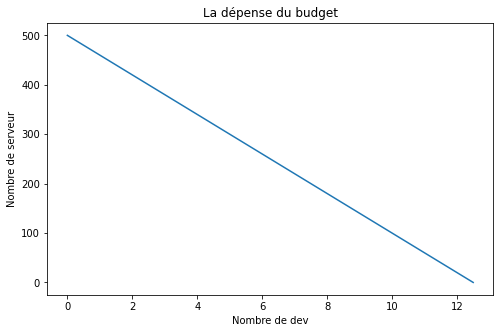
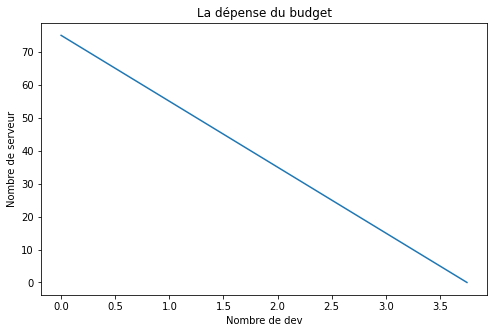
Latex marketing evaluation

diff --git a/Optimisation/Optimisation_budget.tex b/Optimisation/Optimisation_budget.tex
@@ -366,7 +366,7 @@
 Projet}\label{multiplicateur-de-lagrange-pour-optimiser-le-dimensionnement-du-projet}}
 
     \begin{tcolorbox}[breakable, size=fbox, boxrule=1pt, pad at break*=1mm,colback=cellbackground, colframe=cellborder]
-\prompt{In}{incolor}{11}{\boxspacing}
+\prompt{In}{incolor}{1}{\boxspacing}
 \begin{Verbatim}[commandchars=\\\{\}]
 \PY{k+kn}{import} \PY{n+nn}{matplotlib}\PY{n+nn}{.}\PY{n+nn}{pyplot} \PY{k}{as} \PY{n+nn}{plt}
 \PY{k+kn}{import} \PY{n+nn}{numpy} \PY{k}{as} \PY{n+nn}{np}
@@ -378,27 +378,27 @@ Projet}\label{multiplicateur-de-lagrange-pour-optimiser-le-dimensionnement-du-pr
 d'heures de machine chaque mois
 
     \begin{tcolorbox}[breakable, size=fbox, boxrule=1pt, pad at break*=1mm,colback=cellbackground, colframe=cellborder]
-\prompt{In}{incolor}{186}{\boxspacing}
+\prompt{In}{incolor}{2}{\boxspacing}
 \begin{Verbatim}[commandchars=\\\{\}]
 \PY{n}{one\PYZus{}dev\PYZus{}cost} \PY{o}{=} \PY{l+m+mi}{4000}
-\PY{n}{one\PYZus{}host\PYZus{}cost} \PY{o}{=} \PY{l+m+mi}{100}
-\PY{n}{budget} \PY{o}{=} \PY{l+m+mi}{50000}
+\PY{n}{one\PYZus{}host\PYZus{}cost} \PY{o}{=} \PY{l+m+mi}{200}
+\PY{n}{budget} \PY{o}{=} \PY{l+m+mi}{15000}
 \PY{n}{nb\PYZus{}hosts} \PY{o}{=} \PY{n}{budget} \PY{o}{/} \PY{n}{one\PYZus{}host\PYZus{}cost} 
 \end{Verbatim}
 \end{tcolorbox}
 
     \begin{tcolorbox}[breakable, size=fbox, boxrule=1pt, pad at break*=1mm,colback=cellbackground, colframe=cellborder]
-\prompt{In}{incolor}{204}{\boxspacing}
+\prompt{In}{incolor}{3}{\boxspacing}
 \begin{Verbatim}[commandchars=\\\{\}]
-\PY{n}{n} \PY{o}{=} \PY{l+m+mi}{10000}  \PY{c+c1}{\PYZsh{} Ratio de retour sur investissement}
-\PY{n}{p} \PY{o}{=} \PY{l+m+mi}{50}  \PY{c+c1}{\PYZsh{} Ratio d’efficacité des dev / host}
+\PY{n}{n} \PY{o}{=} \PY{l+m+mi}{500} \PY{c+c1}{\PYZsh{} Coeff du retour sur investissement (x5)}
+\PY{n}{p} \PY{o}{=} \PY{l+m+mi}{5}  \PY{c+c1}{\PYZsh{} Coefficient d’efficacité des ventes entre dev / host}
 \end{Verbatim}
 \end{tcolorbox}
 
     Nos possibilités maximales sont
 
     \begin{tcolorbox}[breakable, size=fbox, boxrule=1pt, pad at break*=1mm,colback=cellbackground, colframe=cellborder]
-\prompt{In}{incolor}{187}{\boxspacing}
+\prompt{In}{incolor}{4}{\boxspacing}
 \begin{Verbatim}[commandchars=\\\{\}]
 \PY{n}{host\PYZus{}min} \PY{o}{=} \PY{l+m+mi}{0}
 \PY{n}{host\PYZus{}max} \PY{o}{=} \PY{n}{budget} \PY{o}{/} \PY{n}{one\PYZus{}host\PYZus{}cost}
@@ -409,7 +409,7 @@ d'heures de machine chaque mois
 \end{tcolorbox}
 
     \begin{tcolorbox}[breakable, size=fbox, boxrule=1pt, pad at break*=1mm,colback=cellbackground, colframe=cellborder]
-\prompt{In}{incolor}{188}{\boxspacing}
+\prompt{In}{incolor}{5}{\boxspacing}
 \begin{Verbatim}[commandchars=\\\{\}]
 \PY{k}{def} \PY{n+nf}{n\PYZus{}dev}\PY{p}{(}\PY{n}{n\PYZus{}host}\PY{p}{,} \PY{n}{budget}\PY{p}{)}\PY{p}{:}
     \PY{k}{return} \PY{p}{(}\PY{n}{budget} \PY{o}{\PYZhy{}} \PY{n}{one\PYZus{}host\PYZus{}cost} \PY{o}{*} \PY{n}{n\PYZus{}host}\PY{p}{)} \PY{o}{/} \PY{n}{one\PYZus{}dev\PYZus{}cost}
@@ -417,7 +417,7 @@ d'heures de machine chaque mois
 \end{tcolorbox}
 
     \begin{tcolorbox}[breakable, size=fbox, boxrule=1pt, pad at break*=1mm,colback=cellbackground, colframe=cellborder]
-\prompt{In}{incolor}{189}{\boxspacing}
+\prompt{In}{incolor}{6}{\boxspacing}
 \begin{Verbatim}[commandchars=\\\{\}]
 \PY{k}{def} \PY{n+nf}{n\PYZus{}host}\PY{p}{(}\PY{n}{n\PYZus{}dev}\PY{p}{,} \PY{n}{budget}\PY{p}{)}\PY{p}{:}
     \PY{k}{return} \PY{p}{(}\PY{n}{budget} \PY{o}{\PYZhy{}} \PY{n}{one\PYZus{}dev\PYZus{}cost} \PY{o}{*} \PY{n}{n\PYZus{}dev}\PY{p}{)} \PY{o}{/} \PY{n}{one\PYZus{}host\PYZus{}cost}
@@ -427,7 +427,7 @@ d'heures de machine chaque mois
     Plotting les dépenses du budget sur une courbe
 
     \begin{tcolorbox}[breakable, size=fbox, boxrule=1pt, pad at break*=1mm,colback=cellbackground, colframe=cellborder]
-\prompt{In}{incolor}{190}{\boxspacing}
+\prompt{In}{incolor}{7}{\boxspacing}
 \begin{Verbatim}[commandchars=\\\{\}]
 \PY{n}{dev\PYZus{}x} \PY{o}{=} \PY{n}{np}\PY{o}{.}\PY{n}{linspace}\PY{p}{(}\PY{n}{dev\PYZus{}min}\PY{p}{,} \PY{n}{dev\PYZus{}max}\PY{p}{,} \PY{l+m+mi}{100}\PY{p}{)}
 \PY{n}{host\PYZus{}y} \PY{o}{=} \PY{n}{n\PYZus{}host}\PY{p}{(}\PY{n}{dev\PYZus{}x}\PY{p}{,} \PY{n}{budget}\PY{p}{)}
@@ -447,25 +447,25 @@ d'heures de machine chaque mois
     { \hspace*{\fill} \\}
     
     \begin{tcolorbox}[breakable, size=fbox, boxrule=1pt, pad at break*=1mm,colback=cellbackground, colframe=cellborder]
-\prompt{In}{incolor}{191}{\boxspacing}
+\prompt{In}{incolor}{8}{\boxspacing}
 \begin{Verbatim}[commandchars=\\\{\}]
 \PY{c+c1}{\PYZsh{} Les revenus}
 \end{Verbatim}
 \end{tcolorbox}
 
     \begin{tcolorbox}[breakable, size=fbox, boxrule=1pt, pad at break*=1mm,colback=cellbackground, colframe=cellborder]
-\prompt{In}{incolor}{205}{\boxspacing}
+\prompt{In}{incolor}{9}{\boxspacing}
 \begin{Verbatim}[commandchars=\\\{\}]
 \PY{k}{def} \PY{n+nf}{revenues}\PY{p}{(}\PY{n}{dev}\PY{p}{,} \PY{n}{host}\PY{p}{)}\PY{p}{:}
-    \PY{l+s+sd}{\PYZdq{}\PYZdq{}\PYZdq{}Équation pragmatique qui exprime le bénéfice en }
-\PY{l+s+sd}{    fonction du nombre d’heures de développement}
-\PY{l+s+sd}{    et du nombre d’heure de serveur utiliser.\PYZdq{}\PYZdq{}\PYZdq{}}
+    \PY{l+s+sd}{\PYZdq{}\PYZdq{}\PYZdq{}Équation pragmatique du marketing qui exprime le bénéfice en }
+\PY{l+s+sd}{    fonction du nombre de développeur}
+\PY{l+s+sd}{    et du nombre de serveur.\PYZdq{}\PYZdq{}\PYZdq{}}
     \PY{k}{return} \PY{n}{dev}\PY{o}{*}\PY{o}{*}\PY{p}{(}\PY{p}{(}\PY{n}{p}\PY{o}{\PYZhy{}}\PY{l+m+mi}{1}\PY{p}{)}\PY{o}{/}\PY{n}{p}\PY{p}{)} \PY{o}{*} \PY{n}{host}\PY{o}{*}\PY{o}{*}\PY{p}{(}\PY{l+m+mi}{1}\PY{o}{/}\PY{n}{p}\PY{p}{)} \PY{o}{*} \PY{n}{n}
 \end{Verbatim}
 \end{tcolorbox}
 
     \begin{tcolorbox}[breakable, size=fbox, boxrule=1pt, pad at break*=1mm,colback=cellbackground, colframe=cellborder]
-\prompt{In}{incolor}{206}{\boxspacing}
+\prompt{In}{incolor}{10}{\boxspacing}
 \begin{Verbatim}[commandchars=\\\{\}]
 \PY{k+kn}{from} \PY{n+nn}{mpl\PYZus{}toolkits}\PY{n+nn}{.}\PY{n+nn}{mplot3d} \PY{k+kn}{import} \PY{n}{Axes3D}
 \PY{n}{dev\PYZus{}axis} \PY{o}{=} \PY{n}{np}\PY{o}{.}\PY{n}{linspace}\PY{p}{(}\PY{n}{dev\PYZus{}min}\PY{p}{,} \PY{n}{dev\PYZus{}max}\PY{p}{,} \PY{l+m+mi}{100}\PY{p}{)}
@@ -487,7 +487,7 @@ d'heures de machine chaque mois
 \end{tcolorbox}
 
     \begin{Verbatim}[commandchars=\\\{\}]
-<ipython-input-206-9c6593fc3498>:7: MatplotlibDeprecationWarning: Calling gca()
+<ipython-input-10-9c6593fc3498>:7: MatplotlibDeprecationWarning: Calling gca()
 with keyword arguments was deprecated in Matplotlib 3.4. Starting two minor
 releases later, gca() will take no keyword arguments. The gca() function should
 only be used to get the current axes, or if no axes exist, create new axes with
@@ -506,7 +506,7 @@ plt.axes() or plt.subplot().
 dimensions}\label{repruxe9sentation-de-loptimisation-en-2-dimensions}}
 
     \begin{tcolorbox}[breakable, size=fbox, boxrule=1pt, pad at break*=1mm,colback=cellbackground, colframe=cellborder]
-\prompt{In}{incolor}{207}{\boxspacing}
+\prompt{In}{incolor}{11}{\boxspacing}
 \begin{Verbatim}[commandchars=\\\{\}]
 \PY{n}{fig}\PY{p}{,} \PY{p}{(}\PY{n}{ax\PYZus{}l}\PY{p}{,} \PY{n}{ax\PYZus{}r}\PY{p}{)} \PY{o}{=} \PY{n}{plt}\PY{o}{.}\PY{n}{subplots}\PY{p}{(}\PY{l+m+mi}{1}\PY{p}{,} \PY{l+m+mi}{2}\PY{p}{,} \PY{n}{figsize} \PY{o}{=} \PY{p}{(}\PY{l+m+mi}{15}\PY{p}{,} \PY{l+m+mi}{5}\PY{p}{)}\PY{p}{)}
 
@@ -555,22 +555,14 @@ sur le graphe ci-dessus à droite. Nous utilisons l'API de SAGEMATH avec
 l'option sympy pour équition diophantienne.
 
     \begin{tcolorbox}[breakable, size=fbox, boxrule=1pt, pad at break*=1mm,colback=cellbackground, colframe=cellborder]
-\prompt{In}{incolor}{208}{\boxspacing}
+\prompt{In}{incolor}{12}{\boxspacing}
 \begin{Verbatim}[commandchars=\\\{\}]
 \PY{n}{s}\PY{p}{,} \PY{n}{t}\PY{p}{,} \PY{n}{l} \PY{o}{=} \PY{n}{var}\PY{p}{(}\PY{l+s+s1}{\PYZsq{}}\PY{l+s+s1}{s t l}\PY{l+s+s1}{\PYZsq{}}\PY{p}{)}
 \end{Verbatim}
 \end{tcolorbox}
 
     \begin{tcolorbox}[breakable, size=fbox, boxrule=1pt, pad at break*=1mm,colback=cellbackground, colframe=cellborder]
-\prompt{In}{incolor}{209}{\boxspacing}
-\begin{Verbatim}[commandchars=\\\{\}]
-\PY{n}{n} \PY{o}{=} \PY{l+m+mi}{10000}  \PY{c+c1}{\PYZsh{} Ratio de retour sur investissement}
-\PY{n}{p} \PY{o}{=} \PY{l+m+mi}{50}  \PY{c+c1}{\PYZsh{} Ratio d’efficacité des dev / host}
-\end{Verbatim}
-\end{tcolorbox}
-
-    \begin{tcolorbox}[breakable, size=fbox, boxrule=1pt, pad at break*=1mm,colback=cellbackground, colframe=cellborder]
-\prompt{In}{incolor}{201}{\boxspacing}
+\prompt{In}{incolor}{13}{\boxspacing}
 \begin{Verbatim}[commandchars=\\\{\}]
 \PY{n}{solutions} \PY{o}{=} \PY{n}{solve}\PY{p}{(}\PY{p}{[}\PY{p}{(}\PY{p}{(}\PY{n}{n}\PY{o}{/}\PY{n}{p}\PY{p}{)}\PY{o}{*}\PY{p}{(}\PY{p}{(}\PY{n}{t}\PY{o}{*}\PY{o}{*}\PY{p}{(}\PY{n}{p}\PY{o}{/}\PY{p}{(}\PY{n}{p}\PY{o}{+}\PY{l+m+mi}{1}\PY{p}{)}\PY{p}{)}\PY{p}{)}\PY{o}{/}\PY{n}{s}\PY{o}{*}\PY{o}{*}\PY{p}{(}\PY{n}{p}\PY{o}{/}\PY{p}{(}\PY{n}{p}\PY{o}{+}\PY{l+m+mi}{1}\PY{p}{)}\PY{p}{)}\PY{p}{)} \PY{o}{\PYZhy{}} \PY{n}{one\PYZus{}host\PYZus{}cost}\PY{o}{*}\PY{n}{l} \PY{o}{==} \PY{l+m+mi}{0}\PY{p}{)}\PY{p}{,}
    \PY{p}{(}\PY{p}{(}\PY{n}{n}\PY{o}{*}\PY{n}{p}\PY{o}{/}\PY{p}{(}\PY{n}{p}\PY{o}{+}\PY{l+m+mi}{1}\PY{p}{)}\PY{p}{)}\PY{o}{*}\PY{p}{(}\PY{n}{s}\PY{o}{*}\PY{o}{*}\PY{p}{(}\PY{l+m+mi}{1}\PY{o}{/}\PY{p}{(}\PY{n}{p}\PY{o}{+}\PY{l+m+mi}{1}\PY{p}{)}\PY{p}{)}\PY{o}{/}\PY{n}{t}\PY{o}{*}\PY{o}{*}\PY{p}{(}\PY{l+m+mi}{1}\PY{o}{/}\PY{p}{(}\PY{n}{p}\PY{o}{+}\PY{l+m+mi}{1}\PY{p}{)}\PY{p}{)}\PY{p}{)} \PY{o}{\PYZhy{}} \PY{n}{one\PYZus{}dev\PYZus{}cost}\PY{o}{*}\PY{n}{l} \PY{o}{==} \PY{l+m+mi}{0}\PY{p}{)}\PY{p}{,}
@@ -579,35 +571,35 @@ l'option sympy pour équition diophantienne.
 \end{tcolorbox}
 
     \begin{tcolorbox}[breakable, size=fbox, boxrule=1pt, pad at break*=1mm,colback=cellbackground, colframe=cellborder]
-\prompt{In}{incolor}{210}{\boxspacing}
+\prompt{In}{incolor}{14}{\boxspacing}
 \begin{Verbatim}[commandchars=\\\{\}]
 \PY{n}{revenues}\PY{p}{(}\PY{n}{solutions}\PY{p}{[}\PY{l+m+mi}{0}\PY{p}{]}\PY{p}{[}\PY{n}{s}\PY{p}{]}\PY{p}{,} \PY{n}{solutions}\PY{p}{[}\PY{l+m+mi}{0}\PY{p}{]}\PY{p}{[}\PY{n}{t}\PY{p}{]}\PY{p}{)}\PY{o}{.}\PY{n}{n}\PY{p}{(}\PY{p}{)}
 \end{Verbatim}
 \end{tcolorbox}
 
             \begin{tcolorbox}[breakable, size=fbox, boxrule=.5pt, pad at break*=1mm, opacityfill=0]
-\prompt{Out}{outcolor}{210}{\boxspacing}
+\prompt{Out}{outcolor}{14}{\boxspacing}
 \begin{Verbatim}[commandchars=\\\{\}]
-100368.149862054
+5303.62216314408
 \end{Verbatim}
 \end{tcolorbox}
         
     \begin{tcolorbox}[breakable, size=fbox, boxrule=1pt, pad at break*=1mm,colback=cellbackground, colframe=cellborder]
-\prompt{In}{incolor}{203}{\boxspacing}
+\prompt{In}{incolor}{15}{\boxspacing}
 \begin{Verbatim}[commandchars=\\\{\}]
-\PY{l+s+s1}{\PYZsq{}}\PY{l+s+s1}{nombre de dev:}\PY{l+s+s1}{\PYZsq{}}\PY{p}{,} \PY{n}{solutions}\PY{p}{[}\PY{l+m+mi}{0}\PY{p}{]}\PY{p}{[}\PY{n}{s}\PY{p}{]}\PY{o}{.}\PY{n}{n}\PY{p}{(}\PY{p}{)}\PY{p}{,}\PY{l+s+s1}{\PYZsq{}}\PY{l+s+s1}{nombre de host :}\PY{l+s+s1}{\PYZsq{}}\PY{p}{,} \PY{n}{solutions}\PY{p}{[}\PY{l+m+mi}{0}\PY{p}{]}\PY{p}{[}\PY{n}{t}\PY{p}{]}\PY{o}{.}\PY{n}{n}\PY{p}{(}\PY{p}{)}
+\PY{l+s+s1}{\PYZsq{}}\PY{l+s+s1}{nombre de serveur:}\PY{l+s+s1}{\PYZsq{}}\PY{p}{,} \PY{n}{solutions}\PY{p}{[}\PY{l+m+mi}{0}\PY{p}{]}\PY{p}{[}\PY{n}{s}\PY{p}{]}\PY{o}{.}\PY{n}{n}\PY{p}{(}\PY{p}{)}\PY{p}{,}\PY{l+s+s1}{\PYZsq{}}\PY{l+s+s1}{nombre de dev :}\PY{l+s+s1}{\PYZsq{}}\PY{p}{,} \PY{n}{solutions}\PY{p}{[}\PY{l+m+mi}{0}\PY{p}{]}\PY{p}{[}\PY{n}{t}\PY{p}{]}\PY{o}{.}\PY{n}{n}\PY{p}{(}\PY{p}{)}
 \end{Verbatim}
 \end{tcolorbox}
 
             \begin{tcolorbox}[breakable, size=fbox, boxrule=.5pt, pad at break*=1mm, opacityfill=0]
-\prompt{Out}{outcolor}{203}{\boxspacing}
+\prompt{Out}{outcolor}{15}{\boxspacing}
 \begin{Verbatim}[commandchars=\\\{\}]
-('nombre de dev:', 9.99607996863975, 'nombre de host :', 12.2500980007840)
+('nombre de serveur:', 14.5161290322581, 'nombre de dev :', 3.02419354838710)
 \end{Verbatim}
 \end{tcolorbox}
         
-    Ce qui équivaut à un bénéfice maximum de 2804, pour 10 développeurs et
-12 serveurs
+    Ce qui équivaut à un bénéfice maximum de 5303/mois, pour 3 développeurs
+et 14 serveurs
 
     \begin{tcolorbox}[breakable, size=fbox, boxrule=1pt, pad at break*=1mm,colback=cellbackground, colframe=cellborder]
 \prompt{In}{incolor}{ }{\boxspacing}
